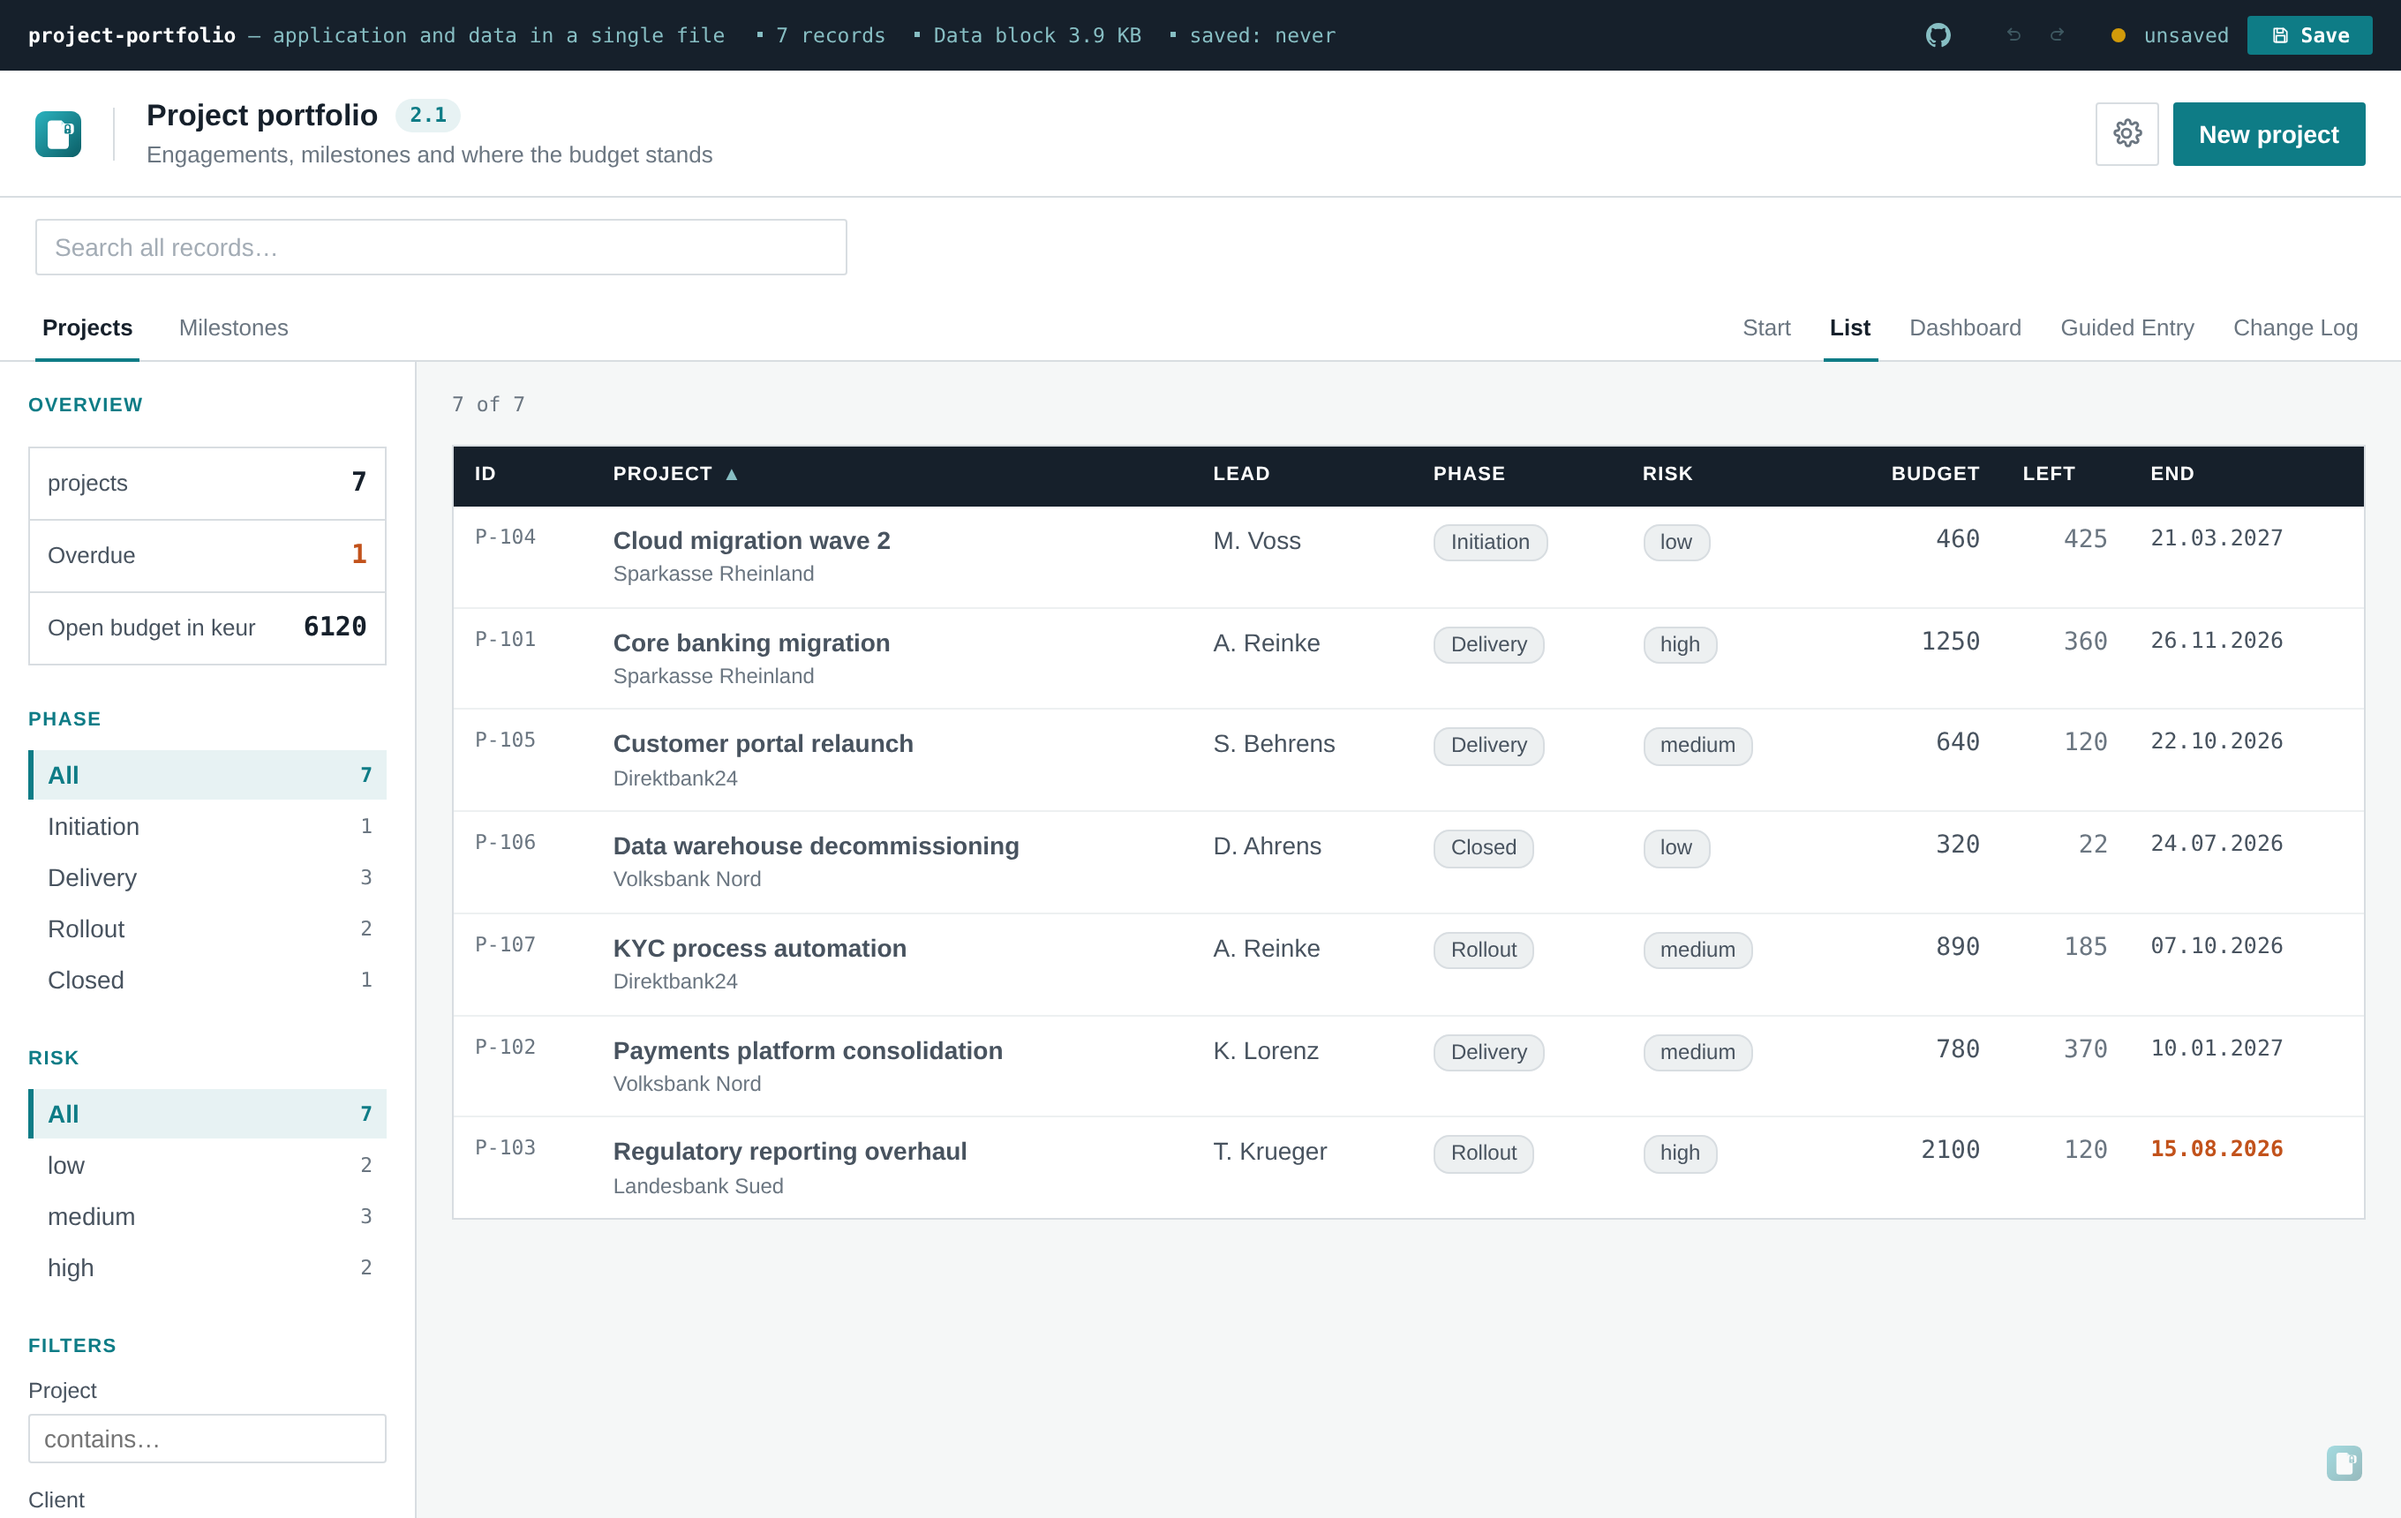
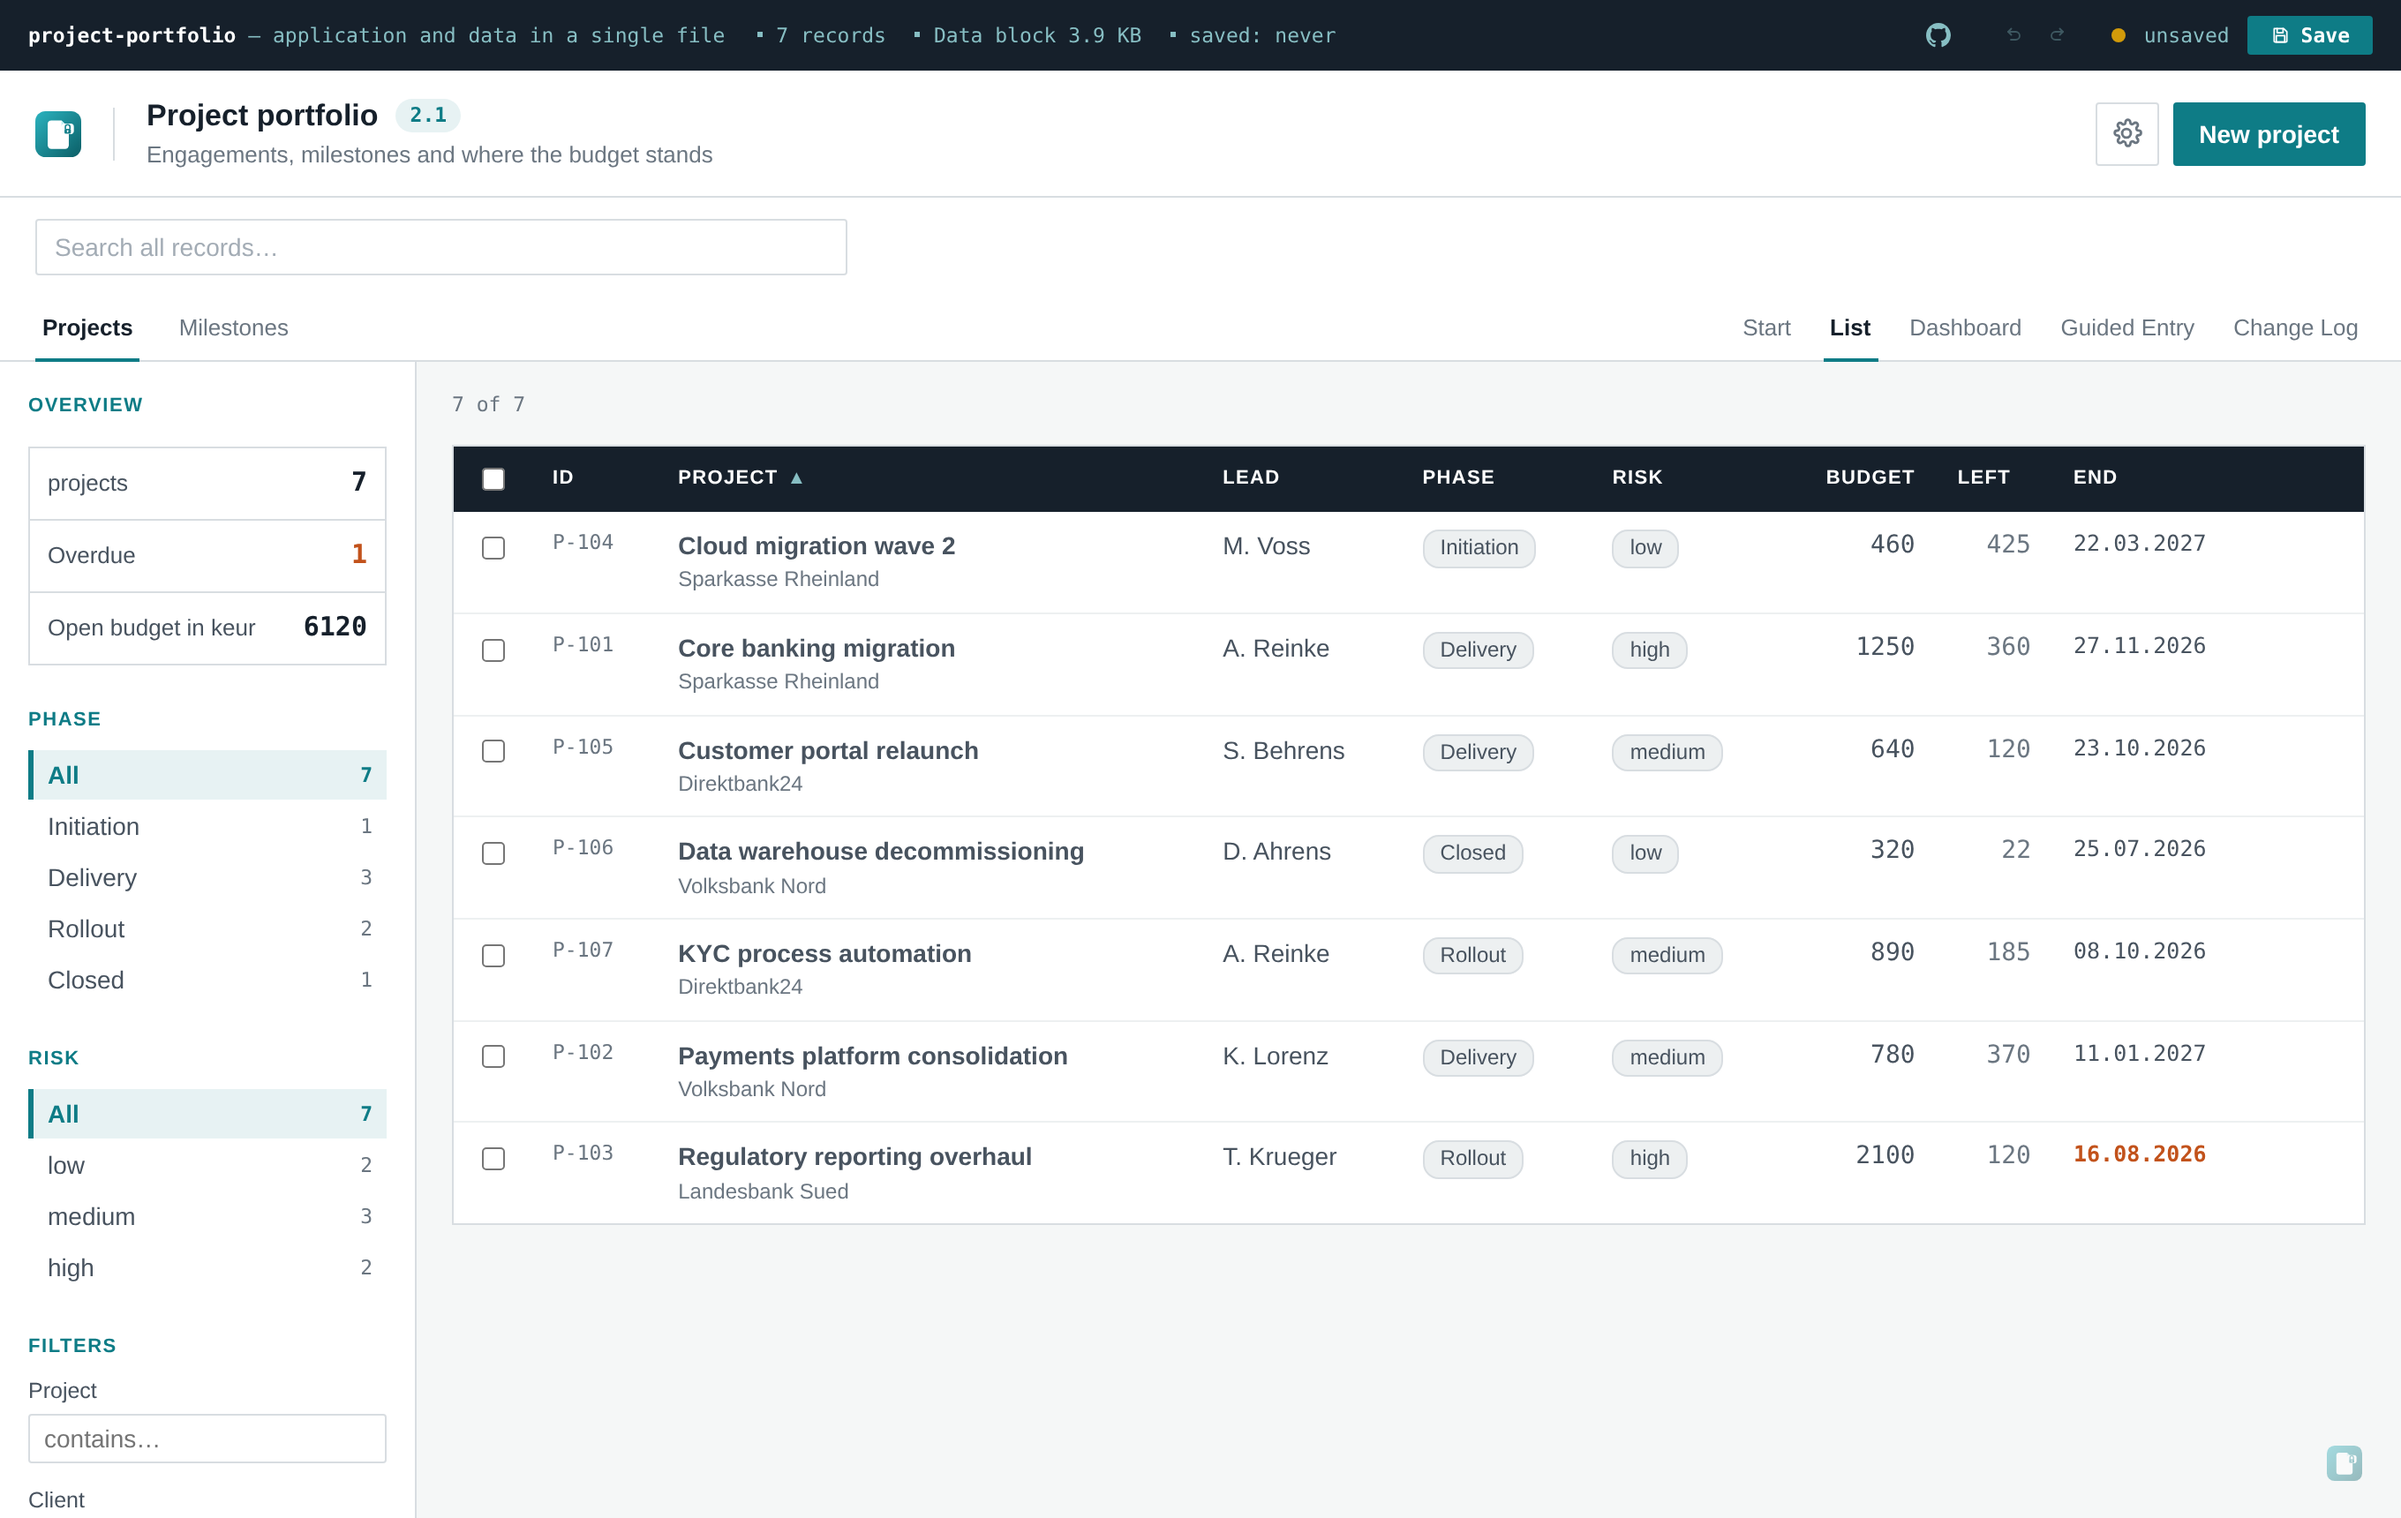
OPEN-30: Massenpflege dokumentiert — Abschnitt Mass editing/Massenpflege in den langen READMEs, je ein Punkt in den fünf kurzen (#27)

diff --git a/README.de.md b/README.de.md
@@ -172,6 +172,10 @@ Dashboard · CSV-Import · Änderungsprotokoll · Versionsnummern.**
   mit, der Titel bekommt einen lokalisierten Zusatz, die Kopie eine eigene Kennung, und es läuft
   über denselben Weg wie ein manueller Eintrag: Undo-Stapel und Änderungsprotokoll eingeschlossen —
   siehe [Datensatz duplizieren](#datensatz-duplizieren).
+- **Massenpflege mit Mehrfachauswahl** — Zeile für Zeile, als Bereich per Umschalt-Klick oder alle
+  sichtbaren Zeilen auf einmal — und eine Aktionsleiste, die einen Aufzählwert setzt oder mit
+  gezählter Rückfrage löscht; ein Protokolleintrag und ein Strg+Z je Aktion — siehe
+  [Massenpflege](#massenpflege).
 
 ## Schnellstart
 
@@ -653,6 +657,50 @@ bewusste Grenze: das ist ein Rückgängig *innerhalb der laufenden Sitzung*, kei
 der Datei. Wer in einem Textfeld tippt, hat weiterhin das bordeigene Rückgängig des Feldes — das
 Tastenkürzel übernimmt erst, wenn der Fokus außerhalb eines Feldes liegt, damit sich beide nie um
 denselben Tastendruck streiten.
+
+## Massenpflege
+
+Dreißig Maßnahmen auf „erledigt“, eine Ladung veralteter Kontakte entfernen, ein Status für eine
+ganze Risikogruppe — dafür ist die Auswahlspalte in jeder Tabelle da. Zeilen einzeln anhaken, per
+**Umschalt-Klick** einen Bereich ab der zuletzt gehakten Zeile, oder das Kontrollkästchen im Kopf
+nehmen für alle **sichtbaren** Zeilen auf einmal (und nochmal, um sie wieder freizugeben). Solange
+nur ein Teil der Seite gewählt ist, zeigt der Kopfhaken seinen gemischten Zustand.
+
+![Mehrfachauswahl und Aktionsleiste](docs/screenshots/bulk.png)
+
+Ein Bild mit dem ganzen Mechanismus auf einmal: drei gewählte Zeilen — ein Klick, dann ein
+Umschalt-Klick, der die Zeile dazwischen mitnimmt —, die getönten Zeilen zeigen, worauf die
+nächste Aktion zielt, und über der Tabelle die Leiste mit Zähler, Feld- und Wert-Auswahl der
+Aufzählung und den drei Aktionen.
+
+Alles-auswählen meint bewusst genau das: die sichtbare Seite, nicht jeden Treffer, der sich hinter
+dem Filter verbirgt. Eine Massenänderung darf keine Zeilen erreichen, die niemand ansieht — und wer
+die Liste mit einem [Filter](#suchen-und-filtern) verkleinert, verkleinert damit das Ziel der
+nächsten Sammelaktion mit. Beim Umsortieren bleibt die Auswahl erhalten: sortiert werden Ids um,
+nicht weggeworfen. Die Auswahl selbst lebt nur in der Sitzung — der Wechsel auf einen anderen
+Entitäts-Reiter räumt sie ab, ein Neuladen beginnt leer (bewusst ohne `localStorage` — der
+eingebettete Datenblock ist der einzige Speicher, den es gibt).
+
+Sobald etwas gewählt ist, blendet sich über der Tabelle eine Aktionsleiste ein — „N ausgewählt“ —
+mit drei Aktionen:
+
+- **Wert setzen** wirkt auf Aufzählfelder und wird nur angeboten, wenn die Entität eines hat; bei
+  mehreren kommt ein Feld-Auswahlmenü davor, bei genau einem geht es direkt zu dessen Werten.
+  Datensätze, die den Zielwert schon tragen, bleiben außen vor und zählen nicht als geändert.
+- **Ausgewählte löschen** fragt immer nach, mit Anzahl. Ab 50 Datensätzen muss die Anzahl eingetippt
+  werden — bei dieser Größenordnung genügt ein einzelner Mausklick als Bestätigung nicht.
+  Datensätze, auf die noch von anderer Stelle aus verwiesen wird, werden aus dem Löschen ausgespart
+  und beim Namen genannt: Der Referenzschutz (siehe
+  [Mehrere Entitäten und Beziehungen](#mehrere-entitäten-und-beziehungen)) gilt hier wie überall.
+  Ein Abbruch der Rückfrage ändert nichts und lässt die Auswahl stehen.
+- **Auswahl aufheben**.
+
+Jede Sammelaktion läuft über denselben Schreibweg wie ein Einzelschritt — Typprüfung, Schema-Regeln
+und Beanstandungen inklusive. Ein regelwidriger Datensatz unter den Gewählten wird übersprungen und
+beim Namen genannt, seine Nachbarn werden regulär gesetzt. Die ganze Aktion landet als **ein**
+Eintrag im Änderungsprotokoll (siehe
+[Versionen und Änderungsprotokoll](#versionen-und-änderungsprotokoll)) und ist mit **einem** Strg+Z
+zurück — dreißig Korrekturen sind ein Verlaufsschritt, nicht dreißig.
 
 ## Grenzen, die man kennen sollte
 

diff --git a/README.md b/README.md
@@ -151,6 +151,9 @@ dashboard · CSV import · change log · version numbers.**
 - **Duplicating a record** from the table row or the open form — every value carried over, the
   title suffixed `(Copy)`, an own identifier for the copy, and the same write path as a manual
   entry: undo stack and change log included — see [Duplicating a record](#duplicating-a-record).
+- **Bulk editing with multi-select** — row by row, by range with Shift-click, or all visible rows at
+  once — and an action bar that sets an enum value or deletes with a counted confirmation; one log
+  entry and one Ctrl+Z per action — see [Mass editing](#mass-editing).
 
 ## Quick start
 
@@ -790,6 +793,47 @@ not clear it and reopening the file does not bring it back — that is a deliber
 a slip *within the current session*, it is not a version history of the file. Typing in a text field
 still gets the browser's own undo for that field; the shortcut only takes over once focus is outside
 one, so the two never fight over the same keystroke.
+
+## Mass editing
+
+Thirty action items to close, a batch of stale contacts to remove, one status for a whole risk
+group — this is what the selection column in every table is for. Tick rows one by one, **Shift-click**
+for a range starting at the last ticked row, or use the header checkbox to take all **visible** rows
+in one go (and again to release them). While only part of the page is selected, the header box shows
+its mixed state.
+
+![Bulk selection and the action bar](docs/screenshots/bulk.png)
+
+One frame with the whole mechanism at work: three rows selected — one click, then a Shift-click
+that takes the row in between — the tinted rows showing what the next action will hit, and above
+the table the bar with the count, the field and value dropdowns for the enum, and the three
+actions.
+
+Select-all means exactly what it says, on purpose: the visible page, not every match hiding behind
+the filter. A mass change must not reach rows nobody is looking at — and whoever narrows the list
+with a [filter](#searching-and-filtering) narrows the target of the next bulk action with it.
+Sorting leaves the selection alone: it reorders ids, it does not drop them. The selection itself
+lives in the session only — switching to another entity tab clears it, and a reload starts clean
+(deliberately without `localStorage`, see [How persistence works](#how-persistence-works)).
+
+As soon as anything is selected, an action bar appears above the table — "N selected" — with three
+actions:
+
+- **Set value** works on enum fields and is offered only when the entity has one; with several enum
+  fields a field dropdown comes first, with exactly one it goes straight to that field's values.
+  Records that already carry the target value are left out rather than counted as changed.
+- **Delete selected** always asks first, naming the count. From 50 records up the count has to be
+  typed back in — at that scale a single mouse click is not confirmation enough. Records still
+  referenced from elsewhere are kept out of the deletion and named instead: reference protection
+  (see [Multiple entities and relationships](#multiple-entities-and-relationships)) applies here
+  like anywhere else. Cancelling the prompt changes nothing and keeps the selection.
+- **Clear selection**.
+
+Every bulk action runs through the same write path as a single edit — type checks, schema rules and
+objections included. A rule-violating record among the selected ones is skipped and named while its
+neighbours are set normally. The whole action lands as **one entry** in the change log (see
+[Version numbers and change log](#version-numbers-and-change-log)) and comes back with **one
+Ctrl+Z** — thirty corrections are one step of history, not thirty.
 
 ## Limits worth knowing
 

diff --git a/README.pt.md b/README.pt.md
@@ -92,6 +92,9 @@ larguras em CSS e o anel é um único círculo SVG. As duas visões imprimem com
 - **Duplicar um registro** pela linha da tabela ou pelo formulário aberto: todos os valores são
   copiados, o título recebe o sufixo localizado e a cópia ganha seu próprio identificador; mesmo
   caminho de um registro manual — desfazer, registro de alterações e gravação apenas ao salvar.
+- **Manutenção em massa com seleção múltipla**: linha a linha, por intervalo com Shift+clique ou
+  todas as linhas visíveis de uma vez; barra de ações para definir um valor de enumeração ou excluir
+  com confirmação com contagem — uma entrada no registro e um Ctrl+Z por ação.
 
 ## Início rápido
 

diff --git a/README.es.md b/README.es.md
@@ -94,6 +94,9 @@ son anchuras CSS y el anillo es un único círculo SVG. Ambas vistas se imprimen
   se copian, el título recibe el sufijo localizado y la copia obtiene su propio identificador; pasa
   por el mismo camino que un registro manual — deshacer, registro de cambios y escritura solo al
   guardar.
+- **Mantenimiento masivo con selección múltiple**: por fila, por rango con Mayús+clic o todas las
+  filas visibles de una vez; barra de acciones para fijar un valor de enumeración o borrar con
+  confirmación contada — una entrada en el registro y un Ctrl+Z por acción.
 
 ## Inicio rápido
 

diff --git a/README.fr.md b/README.fr.md
@@ -100,6 +100,9 @@ s'impriment en un PDF propre.
   les valeurs sont reprises, le titre reçoit le suffixe localisé et la copie obtient son propre
   identifiant ; même chemin qu'une saisie manuelle — annulation, journal des modifications,
   écriture uniquement à l'enregistrement.
+- **Entretien en masse avec sélection multiple** : ligne par ligne, par plage avec Maj+clic ou
+  toutes les lignes visibles d'un coup ; barre d'actions pour fixer une valeur d'énumération ou
+  supprimer avec confirmation comptée — une entrée de journal et un Ctrl+Z par action.
 
 ## Démarrage rapide
 
